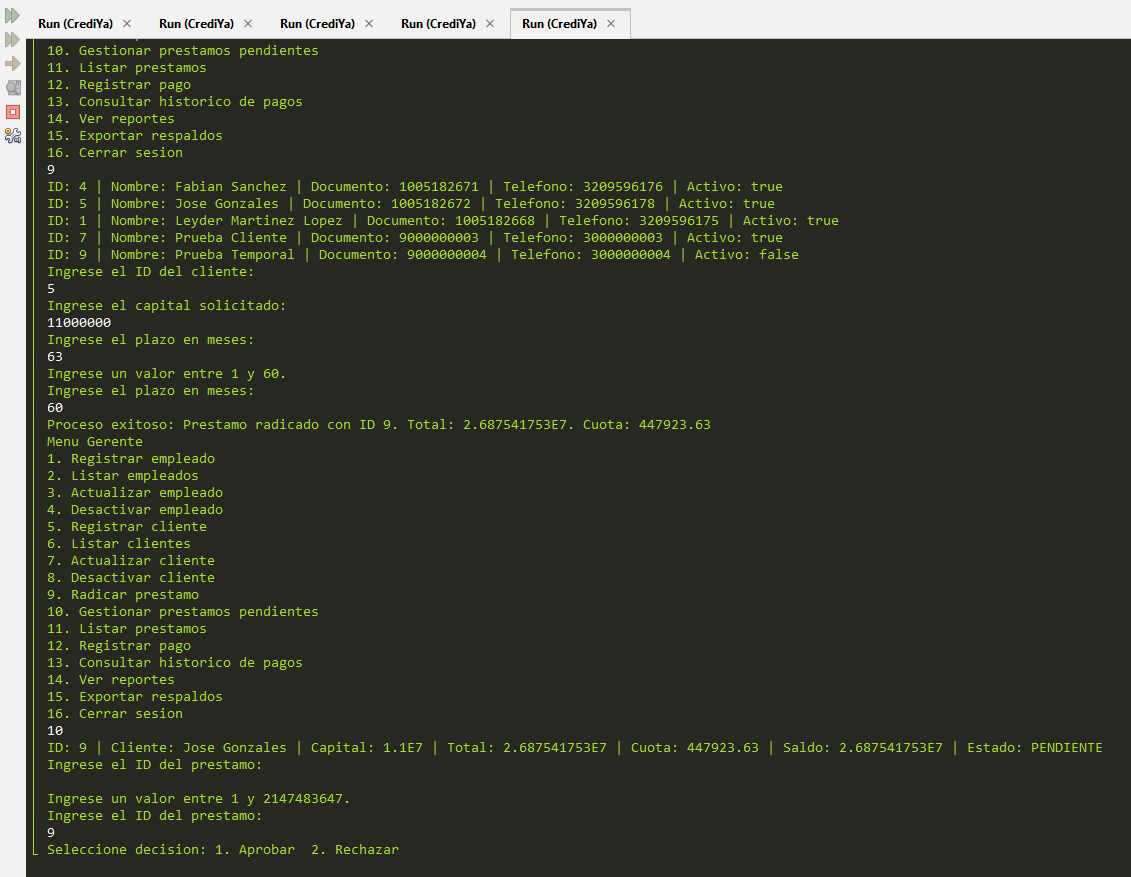
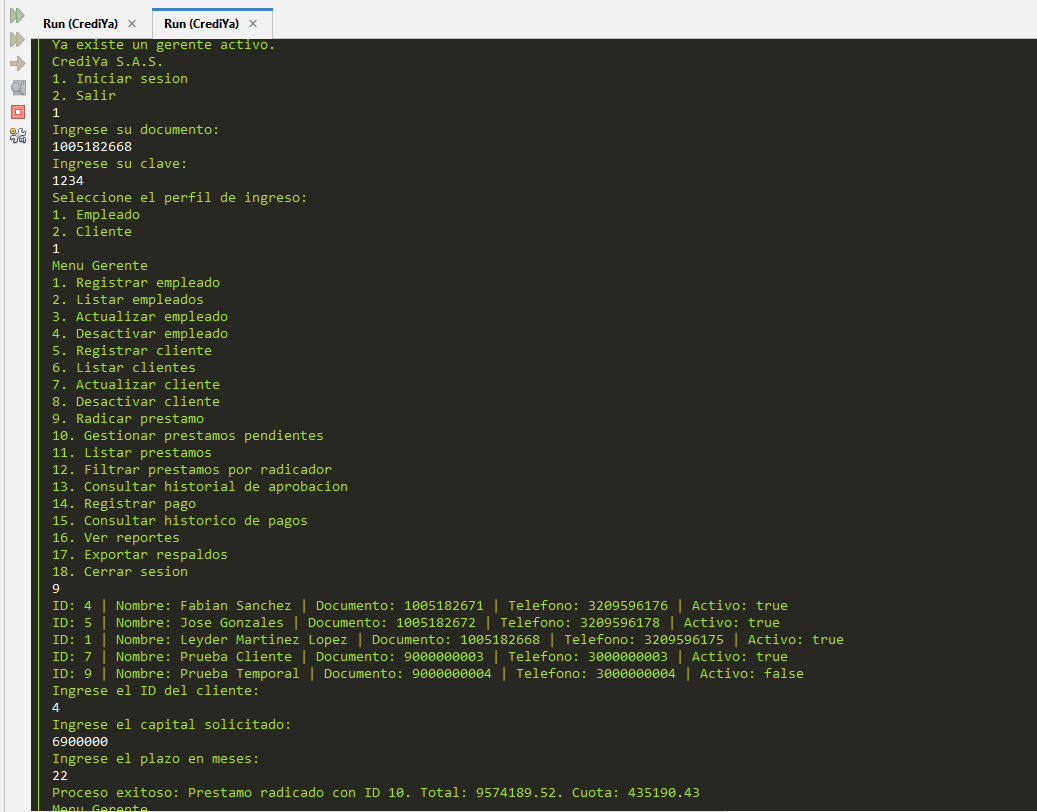
feat: imagenes

diff --git a/CrediYa/README.md b/CrediYa/README.md
@@ -1,6 +1,6 @@
-# CrediYa S.A.S. - Sistema de Prestamos y Cobros
+# CrediYa  - Sistema de Prestamos y Cobros
 
-Sistema de consola desarrollado en Java para digitalizar la gestion de empleados, clientes, prestamos, aprobaciones y pagos de **CrediYa S.A.S.**. La aplicacion usa MySQL mediante JDBC, sigue la arquitectura MVC con DAO y permite generar respaldos serializados.
+Sistema de consola desarrollado en Java para digitalizar la gestion de empleados, clientes, prestamos, aprobaciones y pagos de **CrediYa**. La aplicacion usa MySQL mediante JDBC, sigue la arquitectura MVC con DAO y permite generar respaldos serializados.
 
 > Proyecto academico orientado a aplicar Programacion Orientada a Objetos, colecciones, archivos, JDBC, SOLID y patrones de diseno.
 
@@ -131,54 +131,58 @@ Todos los valores monetarios se almacenan como `DECIMAL` en MySQL.
 
 Muestra la consola con el mensaje de conexion exitosa y el menu de inicio de sesion.
 
-![Conexion e inicio de sesion](docs/images/01-conexion-login.png)
+![Conexion e inicio de sesion](/CrediYa/Documentos/imagenes/01-conexion-login.png)
 
 ### Menu del gerente
 
 Muestra el menu completo del gerente, incluyendo empleados, clientes, prestamos, pagos, reportes y respaldos.
 
-![Menu gerente](docs/images/02-menu-gerente.png)
+![Menu gerente](/CrediYa/Documentos/imagenes/02-menu-gerente.png)
 
 ### Radicacion y calculo del prestamo
 
 Muestra un prestamo radicado con su capital, monto total, cuota mensual y estado pendiente.
 
-![Prestamo radicado](docs/images/03-prestamo-radicado.png)
+![Prestamo radicado](/CrediYa/Documentos/imagenes/03-prestamo-radicado.png)
 
 ### Aprobacion por cadena de responsabilidad
 
 Muestra un prestamo aprobado por asesor, supervisor o gerente, segun su monto.
 
-![Aprobacion de prestamo](docs/images/04-aprobacion-prestamo.png)
+![Aprobacion de prestamo asesor](/CrediYa/Documentos/imagenes/04-aprobacion-cadena-asesor.png)
+![Aprobacion de prestamo supervisor](/CrediYa/Documentos/imagenes/04-aprobacion-cadena-supervisor.png)
+![Aprobacion de prestamo gerente](/CrediYa/Documentos/imagenes/04-aprobacion-cadena-gerente.png)
+
+
 
 ### Historial de aprobacion
 
 200
-![Historial de aprobacion](docs/images/05-historial-aprobacion.png)
+![Historial de aprobacion](/CrediYa/Documentos/imagenes/05-historial-aprobacion.png)
 
 ### Pago mixto
 
 Muestra un pago con efectivo y transferencia, incluyendo el tipo de transferencia y la referencia.
 
-![Pago mixto](docs/images/06-pago-mixto.png)
+![Pago mixto](/CrediYa/Documentos/imagenes/06-Pagomixto.png)
 
 ### Vista del cliente
 
 Muestra el menu del cliente con sus consultas de informacion, prestamos y pagos.
 
-![Menu cliente](docs/images/07-menu-cliente.png)
+![Menu cliente](/CrediYa/Documentos/imagenes/07-menuclientepng.png)
 
 ### Reportes
 
 Muestra alguno de los reportes: prestamos activos, total prestado, recaudo o saldo de cartera.
 
-![Reportes](docs/images/08-reportes.png)
+![Reportes](/CrediYa/Documentos/imagenes/08-ver-reporte.png)
 
 ### Base de datos
 
 Muestra las tablas de `crediya_db` desde MySQL Workbench.
 
-![Base de datos MySQL](docs/images/09-base-datos.png)
+![Base de datos MySQL](/CrediYa/Documentos/imagenes/09-basedatospng.png)
 
 ## Requisitos e instalacion
 
@@ -286,7 +290,3 @@ Proyecto_CrediYa/
 ## Autores
 
 - Leyder Joseph Martinez Lopez
-
----
-
-Desarrollado como proyecto academico para la gestion digital de prestamos y cobros de CrediYa S.A.S.
